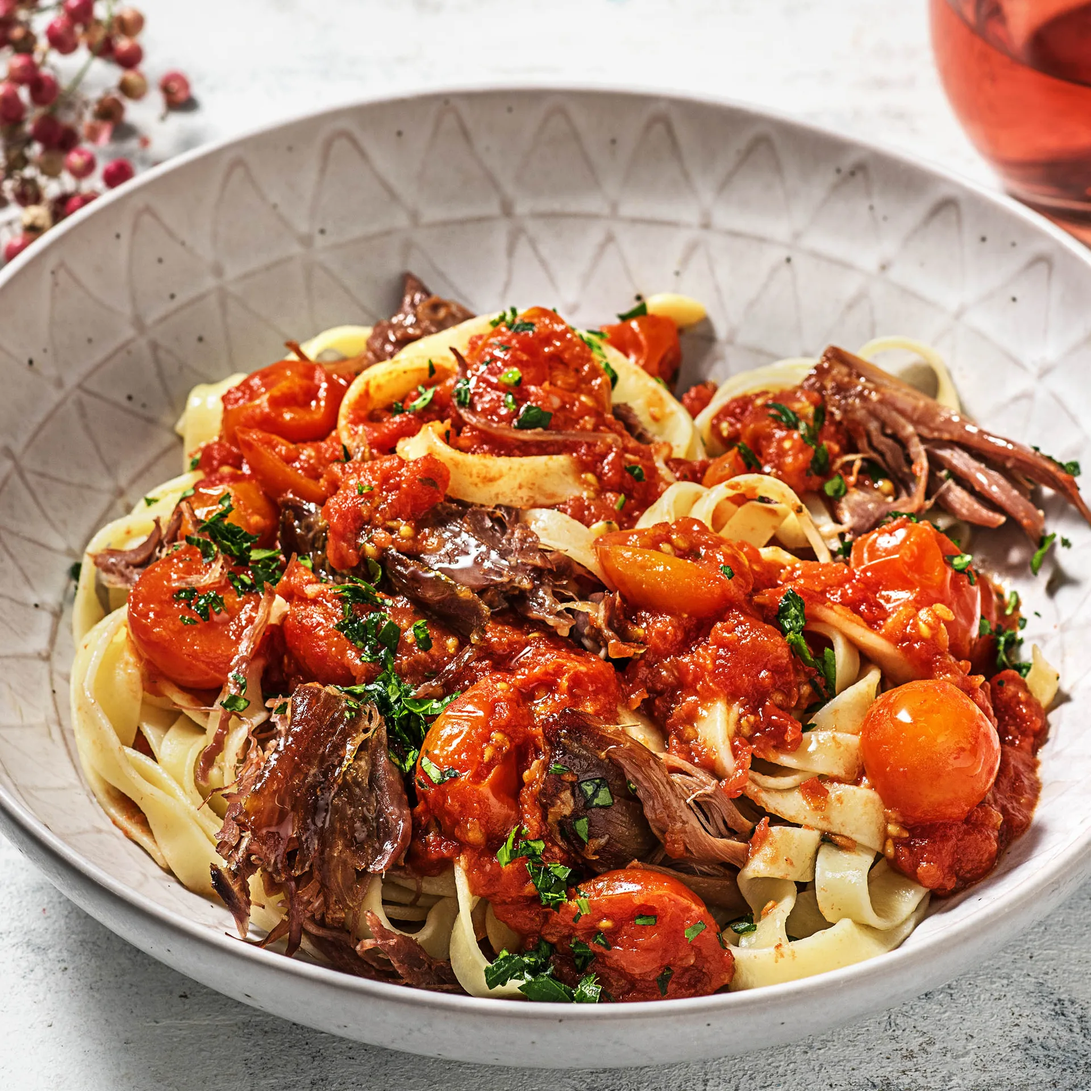
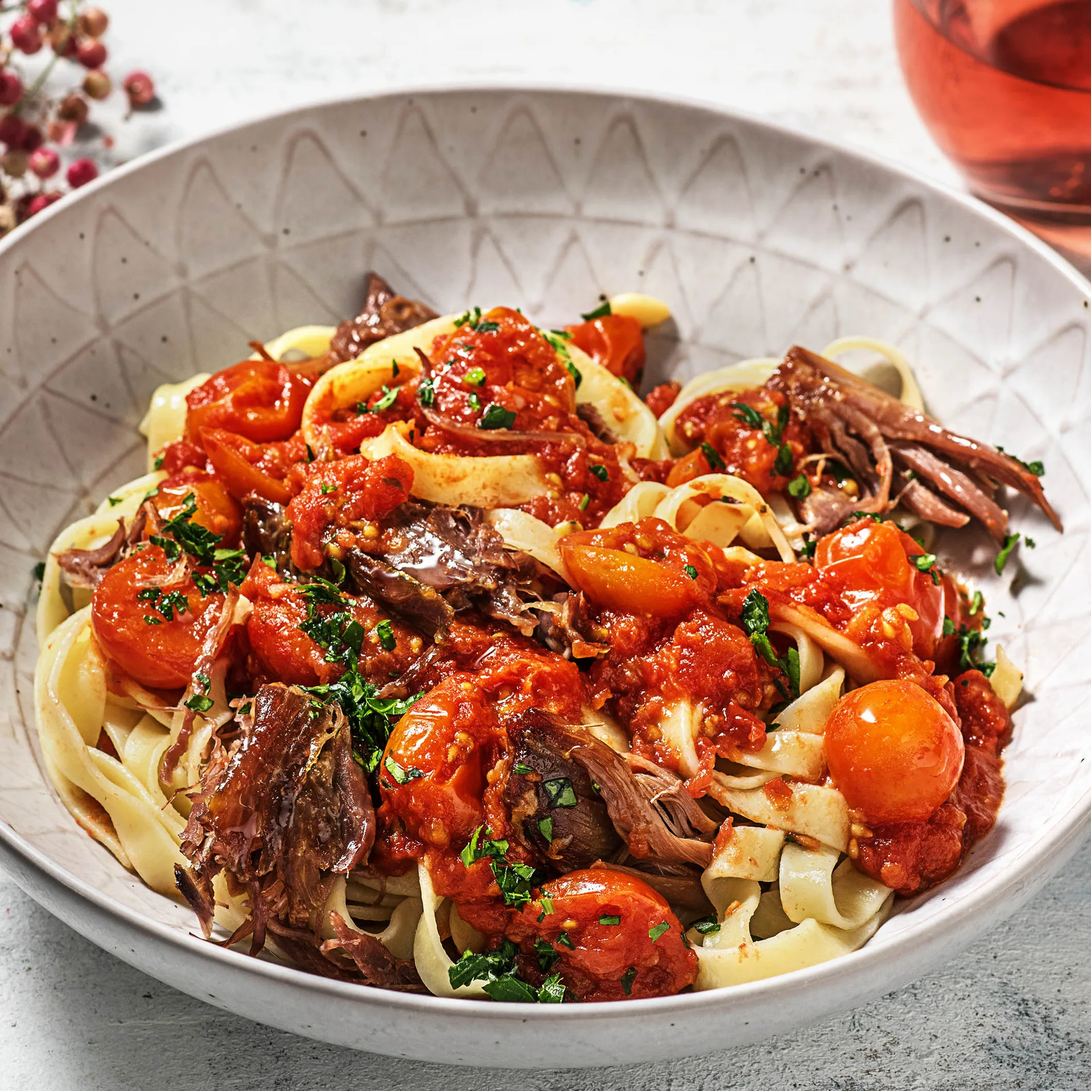
Center HelloFresh crops on the dish
Detect the largest salient image area to center square crops on the meal, falling back to the image center when none stands out. Update import guidance and reference checks, and refresh the tagliatelle photo.

diff --git a/.agents/skills/import-hellofresh/import-hellofresh.js b/.agents/skills/import-hellofresh/import-hellofresh.js
@@ -608,10 +608,82 @@ function today() {
 }
 
 /**
- * Crops a centred square of the shorter side. HelloFresh hero photos are 3:2
- * landscape with the dish in the middle, so this keeps the whole plate instead
- * of the Foodbag circle detector, which found an inner circle on an angled bowl
- * and cut the rim.
+ * Centre of the dish: the largest connected area of saturated or dark pixels.
+ * The plate is usually centred, but the food inside it is not always: a crop
+ * centred on the image then leaves an empty rim on one side and pushes the meal
+ * to the other edge. Falls back to null when no dish stands out.
+ */
+const SALIENT_SATURATION = 0.22;
+const SALIENT_LUMINANCE = 0.42;
+async function dishCenter(buffer, width, height) {
+  const sample = 320;
+  const { data, info } = await sharp(buffer)
+    .rotate()
+    .resize({ width: sample })
+    .removeAlpha()
+    .raw()
+    .toBuffer({ resolveWithObject: true });
+  const { width: sampleWidth, height: sampleHeight, channels } = info;
+  const mask = new Uint8Array(sampleWidth * sampleHeight);
+  for (let i = 0; i < mask.length; i++) {
+    const r = data[i * channels];
+    const g = data[i * channels + 1];
+    const b = data[i * channels + 2];
+    const saturation = (Math.max(r, g, b) - Math.min(r, g, b)) / 255;
+    const luminance = (0.2126 * r + 0.7152 * g + 0.0722 * b) / 255;
+    if (saturation > SALIENT_SATURATION || luminance < SALIENT_LUMINANCE) {
+      mask[i] = 1;
+    }
+  }
+
+  const seen = new Uint8Array(mask.length);
+  let best = null;
+  for (let start = 0; start < mask.length; start++) {
+    if (!mask[start] || seen[start]) continue;
+    const stack = [start];
+    seen[start] = 1;
+    let minX = sampleWidth;
+    let maxX = 0;
+    let minY = sampleHeight;
+    let maxY = 0;
+    let count = 0;
+    while (stack.length) {
+      const pixel = stack.pop();
+      const x = pixel % sampleWidth;
+      const y = (pixel / sampleWidth) | 0;
+      count++;
+      if (x < minX) minX = x;
+      if (x > maxX) maxX = x;
+      if (y < minY) minY = y;
+      if (y > maxY) maxY = y;
+      for (const next of [
+        pixel - 1,
+        pixel + 1,
+        pixel - sampleWidth,
+        pixel + sampleWidth,
+      ]) {
+        if (next < 0 || next >= mask.length) continue;
+        if (Math.abs((next % sampleWidth) - x) > 1) continue;
+        if (mask[next] && !seen[next]) {
+          seen[next] = 1;
+          stack.push(next);
+        }
+      }
+    }
+    if (!best || count > best.count) best = { minX, maxX, minY, maxY, count };
+  }
+  if (!best || best.count < mask.length * 0.01) return null;
+
+  return {
+    x: (((best.minX + best.maxX) / 2) * width) / sampleWidth,
+    y: (((best.minY + best.maxY) / 2) * height) / sampleHeight,
+  };
+}
+
+/**
+ * Crops a square of the shorter side, centred on the dish rather than on the
+ * image: HelloFresh hero photos are 3:2 landscape, but the meal is not always
+ * centred inside the plate.
  */
 async function preparePhoto(url, crop) {
   const buffer = await get(url, 'buffer');
@@ -625,13 +697,20 @@ async function preparePhoto(url, crop) {
   let note = 'photo gardée entière (--no-crop)';
   if (crop) {
     const side = Math.min(width, height);
-    area = {
-      left: Math.round((width - side) / 2),
-      top: Math.round((height - side) / 2),
-      width: side,
-      height: side,
+    const center = (await dishCenter(buffer, width, height)) ?? {
+      x: width / 2,
+      y: height / 2,
     };
-    note = `carré centré ${area.width}x${area.height} depuis (${area.left}, ${area.top})`;
+    const left = Math.max(
+      0,
+      Math.min(width - side, Math.round(center.x - side / 2)),
+    );
+    const top = Math.max(
+      0,
+      Math.min(height - side, Math.round(center.y - side / 2)),
+    );
+    area = { left, top, width: side, height: side };
+    note = `carré centré sur le plat ${side}x${side} depuis (${left}, ${top})`;
   }
 
   const webp = await sharp(buffer)
@@ -645,11 +724,17 @@ async function preparePhoto(url, crop) {
     })
     .webp({ quality: 82 })
     .toBuffer({ resolveWithObject: true });
+  const side = Math.min(width, height);
   return {
     webp: webp.data,
     size: [webp.info.width, webp.info.height],
     note,
     square: webp.info.width === webp.info.height,
+    area,
+    centered: {
+      left: Math.round((width - side) / 2),
+      top: Math.round((height - side) / 2),
+    },
   };
 }
 
@@ -1109,13 +1194,27 @@ async function runChecks() {
           );
         }
       }
-      if (ref.square !== undefined) {
+      if (ref.square !== undefined || ref.cropShifted !== undefined) {
         const photo = await preparePhoto(
           photoUrl(recipe.html, recipe.recipe),
           true,
         );
-        if (photo.square !== ref.square) {
+        if (ref.square !== undefined && photo.square !== ref.square) {
           problems.push(photo.square ? 'photo carrée' : 'photo non carrée');
+        }
+        if (ref.cropShifted !== undefined) {
+          const shifted =
+            Math.max(
+              Math.abs(photo.area.left - photo.centered.left),
+              Math.abs(photo.area.top - photo.centered.top),
+            ) > 10;
+          if (shifted !== ref.cropShifted) {
+            problems.push(
+              shifted
+                ? 'recadrage décalé sur le plat'
+                : 'recadrage centré sur l’image',
+            );
+          }
         }
       }
     } catch (error) {

diff --git a/.agents/skills/import-hellofresh/SKILL.md b/.agents/skills/import-hellofresh/SKILL.md
@@ -38,13 +38,13 @@ Read **Findings** below before importing: it is what earlier imports learned.
 
 4. **Check the photo.** The home page shows each photo as a centered square.
    Open the square preview whose path the script prints (`carré : ...png`). The
-   whole plate must be visible and centered.
-   - The script crops a centred square of the shorter side: HelloFresh hero
-     photos are 3:2 landscape with the dish in the middle.
-   - Check that the square still shows the whole plate. If the dish is off
-     centre, crop the source photo by hand with `sharp` around the food, then
-     save it again as `recipes/<slug>/<slug>.webp` (max 1920 px, WebP quality
-     82).
+   meal must be centered, with even margins on both sides.
+   - The script crops a square of the shorter side, centered on the dish (the
+     largest saturated or dark area), not on the image.
+   - A plate can be wider than that square in a 3:2 photo: both rims are then
+     clipped. Check that the clipping is even and the meal centered; if not,
+     crop the source photo by hand with `sharp`, then save it again as
+     `recipes/<slug>/<slug>.webp` (max 1920 px, WebP quality 82).
    - `--force --no-crop` re-imports with the photo kept whole.
 
 5. Read `recipes/<slug>/recipe.md` once and fix anything odd (wording, units,
@@ -115,9 +115,8 @@ Never store API keys, tokens or other secrets in the skill.
   widest URL found in the page.
 - 2026-11-07: The Foodbag circle detector cropped this angled bowl too tightly:
   it found an off-centre inner circle and cut the right rim. HelloFresh hero
-  photos are 3:2 landscape with the dish centred, so this script crops a centred
-  square of the shorter side instead (3180x2120 → 2120x2120) and the square
-  preview shows the whole bowl.
+  photos are 3:2 landscape, so this script crops a square of the shorter side
+  instead (3180x2120 → 2120x2120).
 - 2026-11-07: Some steps are HTML lists and paragraphs (`<ul><li>`, `<p>`,
   `<strong>`, `<em>`, `&#39;`). `cleanText` flattens block tags to spaces, keeps
   bold/italic as Markdown and decodes numeric and French named entities, so a
@@ -156,6 +155,14 @@ Never store API keys, tokens or other secrets in the skill.
   of bold/italic pairs, separates a bold close from an italic open, and keeps
   the spaces outside the markers. The lentil-salad reference checks the fixed
   step.
+- 2026-11-07: The plate is centred but the meal is not: on the tagliatelle
+  photo the food sits right of the plate centre, so the image-centred crop left
+  an empty rim on the left and pushed the food to the right edge. The script now
+  centres the square on the dish, i.e. the largest connected area of saturated
+  or dark pixels (the food), and falls back to the image centre when no dish
+  stands out. The plate can still be wider than a square of the shorter side,
+  so both rims may be clipped; they are now clipped evenly. The tagliatelle
+  reference checks `cropShifted`.
 
 ## Options
 
@@ -166,7 +173,7 @@ Never store API keys, tokens or other secrets in the skill.
 | `--description <text>` | `<name>, <headline> (HelloFresh)` |
 | `--tags <a,b>` | guessed |
 | `--date <YYYY/MM/DD>` | today |
-| `--no-crop` | crop around the plate |
+| `--no-crop` | crop around the dish |
 | `--no-step-images` | download the instruction step photos |
 | `--force` | refuse to overwrite an existing recipe or import a dish twice |
 | `--dry-run` | write the files |
@@ -179,8 +186,8 @@ Never store API keys, tokens or other secrets in the skill.
   `## Ingrédients (2 personnes)` list (this heading turns the list into a
   checklist on the site), `## Préparation` (numbered steps, each followed by its
   step photo when available) and `## Lien` (the HelloFresh URL).
-- `recipes/<slug>/<slug>.webp`: the largest HelloFresh photo, cropped, at most
-  1920 px.
+- `recipes/<slug>/<slug>.webp`: the largest HelloFresh photo, cropped squarely
+  around the dish, at most 1920 px.
 - `recipes/<slug>/<slug>-etape-N.webp`: one WebP per instruction step photo
   (at most 1200 px, uncropped). Stale ones are removed on `--force`.
 - `recipes.json`: the entry, inserted by date (newest first) and formatted with
